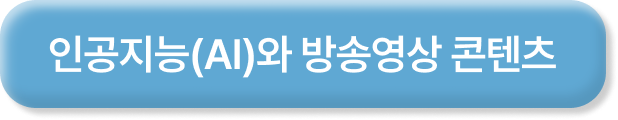
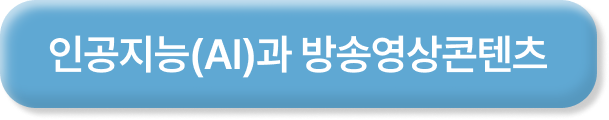
qa: 3차

Changed region(s): [[0.0624, 0.275, 0.9048, 0.65]]

diff --git a/spotlight_2.html b/spotlight_2.html
@@ -75,7 +75,7 @@
       <div class="banner-inner">
         <div class="banner-meta">
           <p class="banner-number">스포트라이트 2</p>
-          <p class="banner-theme">인공지능(AI)와 방송영상 콘텐츠</p>
+          <p class="banner-theme">인공지능(AI)과 방송영상콘텐츠</p>
         </div>
         <p class="banner-title">
           ‘어떻게 만들까’에서 ‘무엇을 만들까’의 시대로: <br class="pc-br">AI 시대, 광고영상 제작의 변화와 전망
@@ -89,10 +89,9 @@
       <!-- 리드 문단 -->
       <div class="lead-section">
         <div class="lead-container">
-          <p class="lead-text"><span class="quotes">“</span>AI와 디지털 전환의 물결 속에서 광고 산업은 지금, 그 어느 때보다 빠르게 진화하고 있다. 특히 인공지능의 등장은 단순한 기술 혁신을 넘어, 콘텐츠 제작
-            방식 자체를 근본적으로 재편하고 있다. 기획과 운영의 효율성을 넘어, 제작 현장에서 AI가 가져오는 실질적인 변화들은 이제 업계 종사자라면 누구나 체감할 수 있을 정도다. 광고 산업의 흐름을
-            조망할 때 기획과 운영 같은 거시적 관점도 중요하지만, 이 글에서는 실질적으로 AI를 활용해 비주얼을 생성하고 영상을 구성하는 실 제작자의 입장에서 현장에 일고 있는 변화의 흐름을 짚어보고자
-            한다.<span class="quotes">”</span></p>
+          <p class="lead-text"><span class="quotes">“</span>AI와 디지털 전환의 물결 속에서 광고 산업은 지금, 그 어느 때보다 빠르게 진화하고 있다. 특히 인공지능의 등장은 단순한 기술 혁신을 넘어, 콘텐츠 제작 방식 자체를 근본적으로 재편하고 있다. 기획과 운영의 효율성을 넘어, 제작 현장에서 AI가 가져오는 실질적인 변화들은 이제 업계 종사자라면 누구나 체감할 수 있을 정도다.<br><br>
+            
+            광고 산업의 흐름을 조망할 때 기획과 운영 같은 거시적 관점도 중요하지만, 이 글에서는 실질적으로 AI를 활용해 비주얼을 생성하고 영상을 구성하는 실 제작자의 입장에서 현장에 일고 있는 변화의 흐름을 짚어보고자 한다.<span class="quotes">”</span></p>
           <p class="lead-author">글. 박찬수(HSAD Chief AI Director)</p>
         </div>
       </div>
@@ -112,12 +111,11 @@
 
           <div class="section-body">
             <p class="paragraph">
-              영화감독 제임스 캐머런은 일본 애니메이션 <총몽>에 매료되어 실사화를 목표로 판권을 사들였지만, 당시 기술로는 원작의 느낌을 구현할 수 없어 20년이 지나서야 영화 <알리타>를 완성할 수
-                  있었다고 한다. 광고를 포함한 대부분의 영상 제작엔 두 개의 기본 축이 있다: ‘무엇을 만들 것인가’와 ‘어떻게 만들 것인가’ 즉, 제작할 소재(아이디어, 스토리)가 구성되면 이것을
-                  어떻게 표현(시각효과, 제작 프로세스)할 것인가로 이어지는 것이 일반적이다. 2022년을 기점으로 생성형 AI가 광고 현장에 본격적으로 투입되면서 소위 ‘AI 도입기’가 시작되었다.
-                  이후 광고계는 광고주와 대행사, 제작사 가릴 것 없이 AI 광풍이 휘몰아치며 모든 관심은 ‘무엇을 만들 것인가’에서 ‘어떻게 만들 것인가’로 급격한 쏠림현상이 일어나게 되었다.
-                  생성형 AI를 중심으로 한 기술과 표현 기법이 새로운 ‘솔루션’으로 주목받으며 시대가 요구하는 ‘AI 능력’의 과시와 증명이 필요했다. 광고업계의 각 집단은 ‘AI 리더십 선점’을
-                  향해 앞다투어 AI를 활용한 기술 구현에 집착했다. 심지어 광고의 내용보다도 ‘이 광고는 AI로 만들어진 광고입니다’라는 자막 한 줄에 더 힘을 주었던 시기였다.
+              영화감독 제임스 캐머런은 일본 애니메이션 <총몽>에 매료되어 실사화를 목표로 판권을 사들였지만, 당시 기술로는 원작의 느낌을 구현할 수 없어 20년이 지나서야 영화 <알리타>를 완성할 수 있었다고 한다. 광고를 포함한 대부분의 영상 제작엔 두 개의 기본 축이 있다:  무엇을 만들 것인가’와 ‘어떻게 만들 것인가’ 즉, 제작할 소재(아이디어, 스토리)가 구성되면 이것을 어떻게 표현(시각효과, 제작 프로세스)할 것인가로 이어지는 것이 일반적이다.<br><br>
+              
+              2022년을 기점으로 생성형 AI가 광고 현장에 본격적으로 투입되면서 소위 ‘AI 도입기’가 시작되었다. 이후 광고계는 광고주와 대행사, 제작사 가릴 것 없이 AI 광풍이 휘몰아치며 모든 관심은 ‘무엇을 만들 것인가’에서 ‘어떻게 만들 것인가’로 급격한 쏠림현상이 일어나게 되었다.<br><br>
+              
+              생성형 AI를 중심으로 한 기술과 표현 기법이 새로운 ‘솔루션’으로 주목받으며 시대가 요구하는 ‘AI 능력’의 과시와 증명이 필요했다. 광고업계의 각 집단은 ‘AI 리더십 선점’을 향해 앞다투어 AI를 활용한 기술 구현에 집착했다. 심지어 광고의 내용보다도 ‘이 광고는 AI로 만들어진 광고입니다’라는 자막 한 줄에 더 힘을 주었던 시기였다.
             </p>
 
             <div class="image-wrap">
@@ -325,7 +323,7 @@
             <p class="paragraph">
               최근 폭발적인 AI 기술의 성장을 직접 활용하며 느끼는 솔직한 심정은 기술이 불러온 기대감만큼이나 씁쓸함도 못지않게 커지고 있음을 부정할 수 없다. 며칠 전 새로 등장한 놀라운 AI 툴을
               테스트하다가 느껴지는 알 수 없는 불안감에 문득 AI에게 질문을 던져보았다. “AI 시대에 나의 다음은 어떻게 되는 걸까?” 그러자 AI는 이런 답을 내게 보내왔다.“기술이 답해줄 수 없는
-              질문. 바로 그것이 당신의 다음을 결정할 겁니다.” AI 시대, 광고 제작의 본질은 '기술'이 아니라 '의미'에 있고 그 의미를 완성하는 질문은 기술이 아닌 인간이 던질 수밖에 없는 것이다.
+              질문. 바로 그것이 당신의 다음을 결정할 겁니다.” AI 시대, 광고 제작의 본질은 ‘기술’이 아니라 ‘의미’에에 있고 그 의미를 완성하는 질문은 기술이 아닌 인간이 던질 수밖에 없는 것이다.
             </p>
           </div>
         </section>

diff --git a/js/swiper-init.js b/js/swiper-init.js
@@ -2,7 +2,7 @@ document.addEventListener("DOMContentLoaded", () => {
   const contents = [
     {
       sectionName: "스포트라이트",
-      theme: "인공지능(AI)와 방송영상 콘텐츠",
+      theme: "인공지능(AI)과 방송영상콘텐츠",
       item: "방송영상콘텐츠의 다음 장을 여는 AI 기술과 창작자의 역할",
       img: "./img/manuscript1/banner.png",
     },
@@ -17,13 +17,14 @@ document.addEventListener("DOMContentLoaded", () => {
       theme: "AI 활용한 영상콘텐츠 제작자를 만나다!",
       item: "스튜디오메타케이, 김광집 대표<br>무암, 현해리 대표",
       img: "./img/manuscript8/banner.png",
-      // imgMobile: "./img/manuscript8/banner-pc.png",
+      imgMobile: "./img/manuscript8/banner-m.png",
     },
     {
       sectionName: "트렌드 하이라이트",
       theme: "",
       item: "미드 명가, HBO의 국내 상륙기",
       img: "./img/manuscript10/banner.png",
+      imgMobile: "./img/manuscript10/banner-m.png",
     },
     {
       sectionName: "데이터 포인트",

diff --git a/index.html b/index.html
@@ -276,7 +276,7 @@
           <!-- TrendItem A -->
           <div class="swiper-slide">
             <a href="./trend_1.html" class="trend-item">
-              <div class="item-bg" style="background-image: url('./img/manuscript10/thum.png');"></div>
+              <div class="item-bg" style="background-image: url('./img/manuscript10/thum.jpg');"></div>
               <div class="item-overlay"></div>
               <div class="item-content">
                 <p class="item-author">김헌 ㅣ 한양대학교 ERICA 미디어학과 조교수</p>

diff --git a/spotlight_3.html b/spotlight_3.html
@@ -75,7 +75,7 @@
       <div class="banner-inner">
         <div class="banner-meta">
           <p class="banner-number">스포트라이트 3</p>
-          <p class="banner-theme">인공지능(AI)와 방송영상 콘텐츠</p>
+          <p class="banner-theme">인공지능(AI)과 방송영상콘텐츠</p>
         </div>
         <p class="banner-title">
           AI가 제작한 ‘지브리’ 스타일은 저작권 침해일까: <br class="pc-br">AI 창작물의 법적 보호를 둘러싼 쟁점과 논의

diff --git a/spotlight_1.html b/spotlight_1.html
@@ -75,7 +75,7 @@
       <div class="banner-inner">
         <div class="banner-meta">
           <p class="banner-number">스포트라이트 1</p>
-          <p class="banner-theme">인공지능(AI)와 방송영상 콘텐츠</p>
+          <p class="banner-theme">인공지능(AI)과 방송영상콘텐츠</p>
         </div>
         <p class="banner-title">
           방송영상콘텐츠의 다음 장을 여는 AI 기술과 창작자의 역할

diff --git a/spotlight_4.html b/spotlight_4.html
@@ -75,7 +75,7 @@
       <div class="banner-inner">
         <div class="banner-meta">
           <p class="banner-number">스포트라이트 4</p>
-          <p class="banner-theme">인공지능(AI)와 방송영상 콘텐츠</p>
+          <p class="banner-theme">인공지능(AI)과 방송영상콘텐츠</p>
         </div>
         <p class="banner-title">
           AI 생성물 표시제 도입에 따른 주요 쟁점

diff --git a/trend_1.html b/trend_1.html
@@ -70,7 +70,7 @@
     </div>
 
     <!-- 배너 영역 -->
-    <div class="spotlight-banner" style="background-image: url('./img/manuscript10/thum.png');">
+    <div class="spotlight-banner" style="background-image: url('./img/manuscript10/thum.jpg');">
       <div class="banner-overlay"></div>
       <div class="banner-inner">
         <div class="banner-meta">
